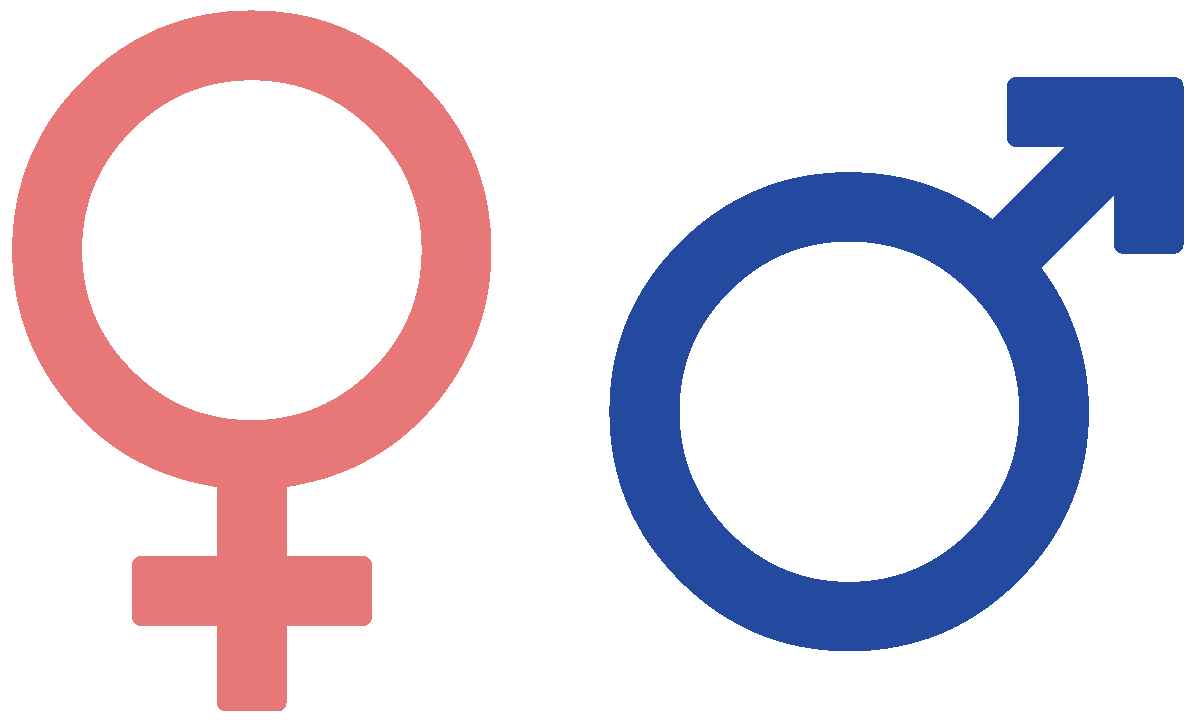
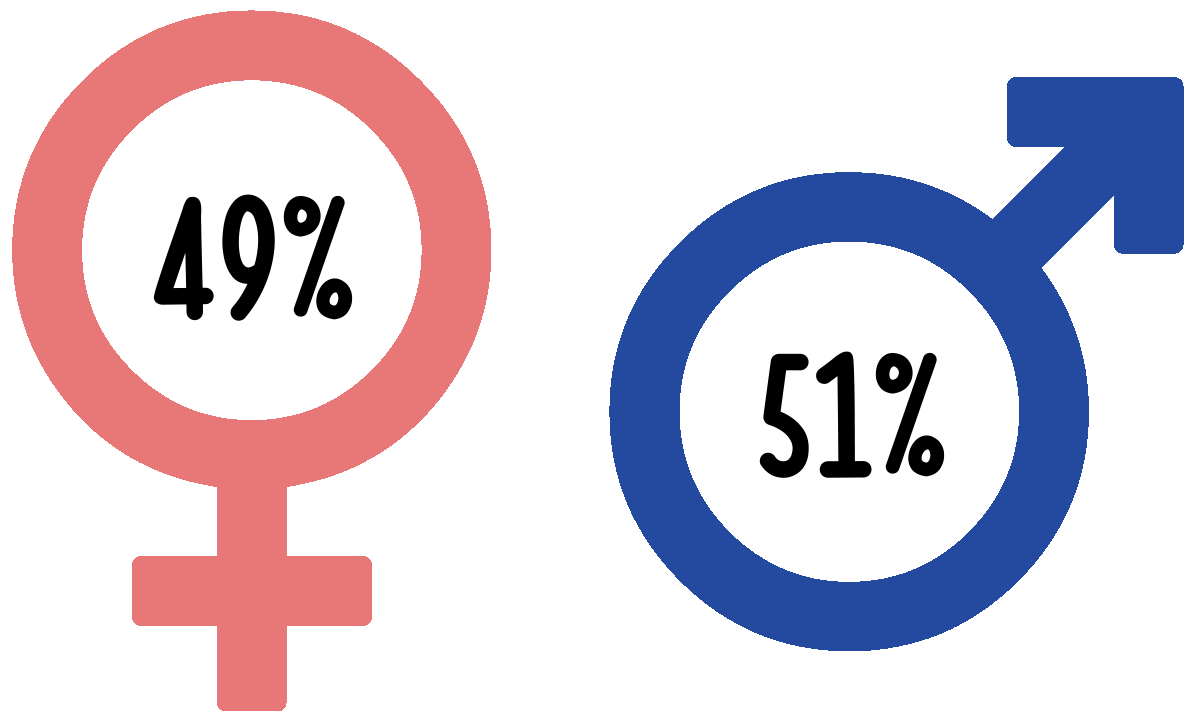
update layout

Changed region(s): [[0.6167, 0.4862, 0.8017, 0.6685], [0.1233, 0.2735, 0.3083, 0.4558]]

diff --git a/malaysian_population.html b/malaysian_population.html
@@ -6,12 +6,12 @@
     <script src="https://cdn.jsdelivr.net/npm/vega-lite@4"></script>
     <!-- Import vega-embed -->
     <script src="https://cdn.jsdelivr.net/npm/vega-embed@6"></script>
-    <link rel="stylesheet" href="https://ason0008.github.io/FIT3179/visualisation-styles.css">
-    <!-- <link rel="stylesheet" href="./visualisation-styles.css"> -->
+    <!-- <link rel="stylesheet" href="https://ason0008.github.io/FIT3179/visualisation-styles.css"> -->
+    <link rel="stylesheet" href="./visualisation-styles.css">
   </head>
 
   <body>
-    <div class="main-title">MALAYSIAN POPULATION 2020</div>
+    <div class="main-title">POPULATION DEMOGRAPHICS OF MALAYSIA 2020</div>
     <div class="introductionA">In scientific terms, demographics is the study of population based on different parameters. This visualisation serves to examine Malaysia's population demographic</div>
     <div class="introductionB">based on population density, population changes, gender, age group and ethnicity. The population of Malaysia in 2020 is estimated to be 32.65 million.</div>
     <div class="map-title">Population Density of States</div>
@@ -19,7 +19,7 @@
       <div id="map"></div>
     </div>
     <div class="filter-map-caption">Click on each state to reveal a fun fact!</div>
-    <div class="map-summary">From the map, we can see that most Malaysians congregate at Peninsular Malaysia, particularly on the West coast where major metropolitan areas like Klang Valley are located. Renowned as the business hub of Malaysia, Kuala Lumpur is crowned the most populated state, while Sarawak is the least crowded given its vast land area.</div>
+    <div class="map-summary">There are 13 states and 3 federal territories in Malaysia. From the map, we can see that most Malaysians congregate at Peninsular Malaysia, particularly on the West coast where major metropolitan areas like Klang Valley are located. Renowned as the business hub of Malaysia, Kuala Lumpur is crowned the most populated state, while Sarawak is the least crowded given its vast land area.</div>
 
     <div class="connector">But how did we get to this point today? Has the population density of each state always been the same? Let's delve deeper into the population changes of Malaysia over the past decade!</div>
 
@@ -38,7 +38,7 @@
     <div class="filter-heatmap-caption">Click on the donut chart to filter the heatmap based on ethnicity!</div>
     <div class="donut-caption">The 3 main ethnicities of Malaysia consist of Bumiputera (indigenous community and Malays), Chinese and Indian.</div>
     <img src="./data/gender_symbol.png" width="auto" height="110" style="position:absolute;vertical-align:middle;margin:-260px 246px"/>
-    <div class="gender-caption">The ratio of the population of females to males in Malaysia is 0.49 : 0.51.</div>
+    <div class="gender-caption">In 2020, the female population is 15851700 while the male population is 16805600.</div>
     <div class="heatmap-summary">The diagrams above reveal that majority of Malaysians are in their 30s and late 20s. The largest ethnicity group in Malaysia is Bumiputera, followed by Chinese and Indian. Interestingly, non-Malaysian immigrants make up one-tenth of the Malaysian population. The gender ratio is rather even.</div>
 
     <div class="conclusion">Population studies are indispensable in understanding historical trends, to make sense of the observed economics and in preparing future policies and development. This visualisation serves to communicate this important piece of information through various intriguing graphics.</div>

diff --git a/visualisation-styles.css b/visualisation-styles.css
@@ -21,7 +21,7 @@ body {
     font-weight: bold;
 }
 
-.map-grid, .waterfall-grid, .heatmap-grid, .pyramid-grid {
+.map-grid, .waterfall-grid, .pyramid-grid {
     margin-left: 40px;
     text-align: center;
 }
@@ -32,6 +32,11 @@ body {
 
 .waterfall-grid {
     margin-top: -30px;
+}
+
+.heatmap-grid {
+    margin-left: 65px;
+    text-align: center;
 }
 
 .map-title, .waterfall-title, .heatmap-title, .pyramid-title {
@@ -96,17 +101,6 @@ body {
     margin-right: 10px;
     font-family: Overpass;
     font-size: 12px;
-}
-
-.waterfall-caption {
-    position: absolute;
-    margin-top: -200px;
-    margin-left: 800px;
-    font-family: Overpass;
-}
-
-.heatmap-grid {
-    margin-left: 65px;
 }
 
 .filter-heatmap-caption {
